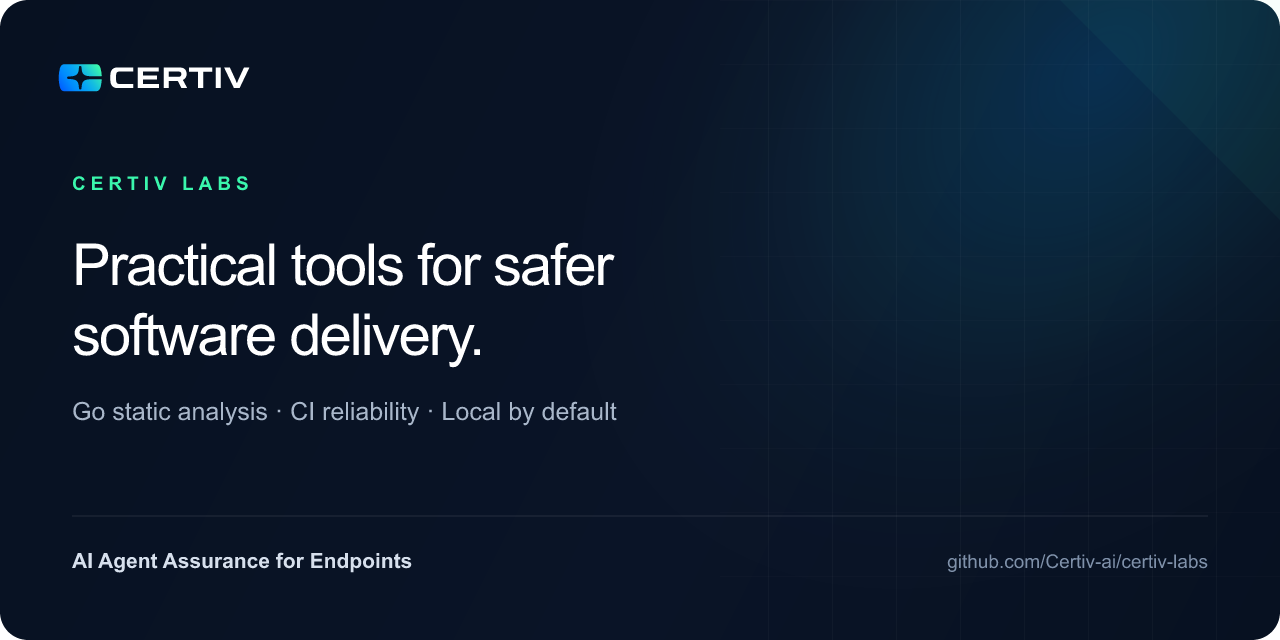
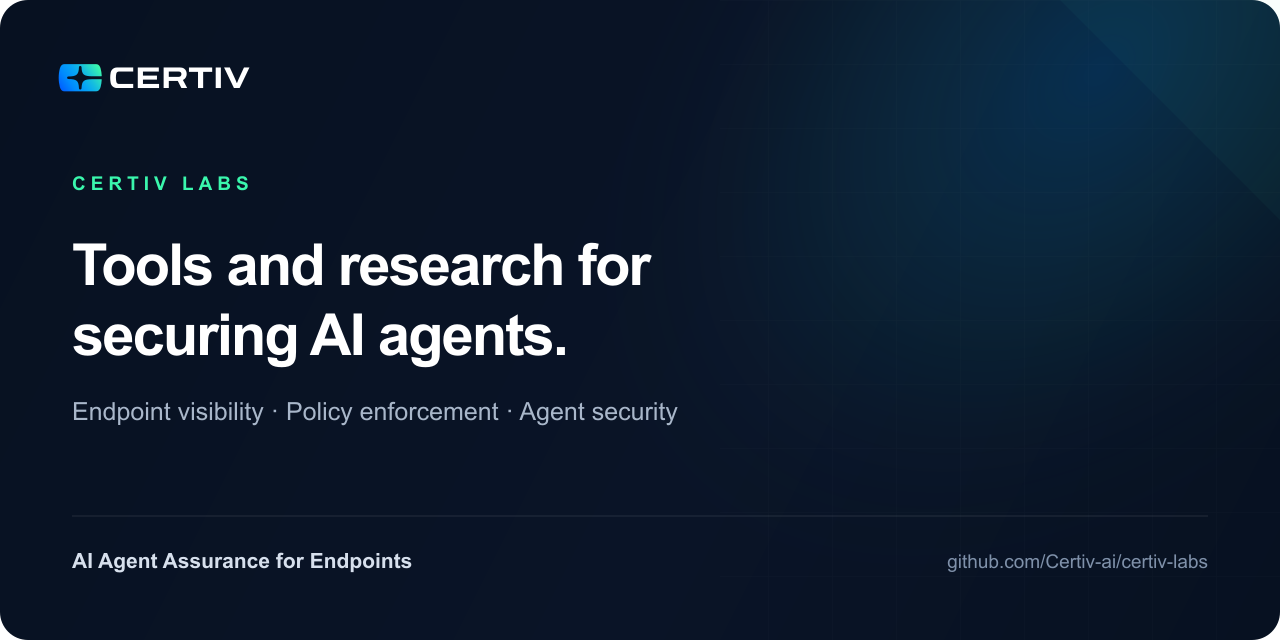
docs: reframe Labs around AI security

Changed region(s): [[0.0625, 0.375, 0.5, 0.5938], [0.0625, 0.625, 0.5312, 0.6562]]

diff --git a/internal/readme/readme_test.go b/internal/readme/readme_test.go
@@ -10,13 +10,9 @@ import (
 )
 
 type catalog struct {
-	Publisher struct {
-		ToolsURL string `json:"toolsUrl"`
-	} `json:"publisher"`
 	Tools []struct {
 		Slug          string `json:"slug"`
 		Documentation string `json:"documentation"`
-		CanonicalURL  string `json:"canonicalUrl"`
 		SourceURL     string `json:"sourceUrl"`
 	} `json:"tools"`
 }
@@ -70,7 +66,7 @@ func TestMarkdownRelativeLinksResolve(t *testing.T) {
 	}
 }
 
-func TestCatalogAndReadmesUseCanonicalLinks(t *testing.T) {
+func TestCatalogLinksToRepositoryDocumentation(t *testing.T) {
 	root := repositoryRoot(t)
 	contents, err := os.ReadFile(filepath.Join(root, "catalog.json"))
 	if err != nil {
@@ -81,12 +77,6 @@ func TestCatalogAndReadmesUseCanonicalLinks(t *testing.T) {
 	if err := json.Unmarshal(contents, &manifest); err != nil {
 		t.Fatalf("parse catalog: %v", err)
 	}
-	if manifest.Publisher.ToolsURL != "https://certiv.ai/tools/" {
-		t.Fatalf(
-			"unexpected tools catalog URL: %q",
-			manifest.Publisher.ToolsURL,
-		)
-	}
 	if len(manifest.Tools) < 2 {
 		t.Fatalf("catalog has %d tools, want at least 2", len(manifest.Tools))
 	}
@@ -94,15 +84,6 @@ func TestCatalogAndReadmesUseCanonicalLinks(t *testing.T) {
 	for _, tool := range manifest.Tools {
 		if tool.Slug == "" {
 			t.Error("catalog tool has empty slug")
-		}
-		expectedCanonical := "https://certiv.ai/tools/" + tool.Slug + "/"
-		if tool.CanonicalURL != expectedCanonical {
-			t.Errorf(
-				"%s canonical URL = %q, want %q",
-				tool.Slug,
-				tool.CanonicalURL,
-				expectedCanonical,
-			)
 		}
 		expectedSource := "https://github.com/Certiv-ai/certiv-labs/tree/main/cmd/" + tool.Slug
 		if tool.SourceURL != expectedSource {
@@ -115,21 +96,8 @@ func TestCatalogAndReadmesUseCanonicalLinks(t *testing.T) {
 		}
 
 		readmePath := filepath.Join(root, filepath.FromSlash(tool.Documentation))
-		readme, err := os.ReadFile(readmePath)
-		if err != nil {
+		if _, err := os.ReadFile(readmePath); err != nil {
 			t.Errorf("%s documentation cannot be read: %v", tool.Slug, err)
-			continue
-		}
-		displayURL := strings.TrimPrefix(
-			tool.CanonicalURL,
-			"https://",
-		)
-		if !strings.Contains(string(readme), displayURL) {
-			t.Errorf(
-				"%s documentation does not link to %s",
-				tool.Slug,
-				tool.CanonicalURL,
-			)
 		}
 	}
 }

diff --git a/README.md b/README.md
@@ -1,86 +1,46 @@
 # Certiv Labs
 
-Practical developer tools for safer software delivery. Run focused checks
-locally or in CI—no Certiv account, network access, or telemetry required.
+<p align="center">
+  <img src="assets/social-preview.png" alt="Certiv Labs — tools and research for securing AI agents" width="100%">
+</p>
 
-Built by the team behind [Certiv](https://certiv.ai/): **AI Agent Assurance for
-Endpoints.**
+Certiv Labs is the public home for Certiv's tools, research, and field-tested
+techniques for securing AI agents at the endpoint.
 
-> **Current status:** Public preview. The tools are available for evaluation,
-> but this repository does not yet carry an open-source license or a supported
-> versioned release.
+We explore how security teams can discover agent activity, understand intent,
+enforce policy before execution, and produce evidence they can trust.
 
-## Start here
+[Website](https://certiv.ai/) ·
+[Platform](https://certiv.ai/product/) ·
+[Insights](https://certiv.ai/blog/) ·
+[Book a demo](https://certiv.ai/demo/)
 
-- **Browse the tools:** [certiv.ai/tools/](https://certiv.ai/tools/)
-- **Machine-readable catalog:** [`catalog.json`](catalog.json)
-- **About Certiv:** [certiv.ai](https://certiv.ai/)
-- **Product overview:** [AI Agent Assurance for Endpoints](https://certiv.ai/product/)
+## Focus areas
 
-The website catalog is the stable, human- and agent-readable source for
-discovery. This repository remains the source of truth for code, setup,
-limitations, and contribution guidance.
+- **Agent discovery:** Find sanctioned and shadow agents operating across
+  enterprise endpoints.
+- **Intent and tool-use visibility:** Understand what agents are attempting,
+  which tools they invoke, and what data they can reach.
+- **Pre-execution control:** Evaluate and enforce policy before risky agent
+  actions run.
+- **Agent security evaluation:** Test agent behavior against prompt injection,
+  unsafe tool use, excessive permissions, and data-exfiltration paths.
 
-## Tools
+## Open releases
 
-| Tool                                                                                 | Problem it catches                                                                                                    | Maturity      | Documentation                                |
-| ------------------------------------------------------------------------------------ | --------------------------------------------------------------------------------------------------------------------- | ------------- | -------------------------------------------- |
-| [`selectstar` — Go `sqlx` `SELECT *` linter](cmd/selectstar/)                        | `SELECT *` queries that can break strict scans when a schema changes before old application instances stop serving    | Internal beta | [README](cmd/selectstar/README.md)           |
-| [`integrationtestnames` — Go integration-test CI checker](cmd/integrationtestnames/) | Integration-tagged tests that CI silently skips because their names do not match the configured `go test -run` prefix | Internal beta | [README](cmd/integrationtestnames/README.md) |
+Our first public AI-security releases are in development. Each release will
+appear here with a clear use case, threat model, quick start, data-handling
+notes, maturity level, and source code.
 
-## Try the tools locally
+Follow this repository to see new projects as they are published.
 
-Requirements:
+## About Certiv
 
-- Go 1.22 or later
-- a local checkout of this repository
+[Certiv](https://certiv.ai/) provides **AI Agent Assurance for Endpoints**,
+giving organizations visibility and control over agentic activity before risky
+actions execute.
 
-Run all checks:
-
-```bash
-go test ./...
-go vet ./...
-```
-
-Run either tool directly:
-
-```bash
-go run ./cmd/selectstar --fail /path/to/go/project
-go run ./cmd/integrationtestnames /path/to/go/project
-```
-
-Both tools are local static analyzers. They do not send source code, telemetry,
-or usage data anywhere.
-
-## Why Certiv publishes these
-
-AI-assisted engineering makes small, automated safeguards more valuable. Labs
-is where Certiv shares focused tools and implementation lessons that are useful
-outside our product. Each release is problem-led, transparent about its limits,
-and usable without a Certiv account.
-
-## What belongs in Labs
-
-A Labs release should:
-
-1. solve a real problem without requiring a Certiv account;
-2. take less than ten minutes to try;
-3. state its maturity, limitations, data handling, and support level;
-4. include tests, CI, contribution guidance, and a security contact;
-5. connect a specific engineering problem to the broader work Certiv does.
-
-Small and useful beats broad and speculative.
-
-## Repository state
-
-This repository is intentionally not licensed for public reuse yet. Before the
-first supported release, Certiv must approve a license, complete intellectual
-property review, assign a maintainer, and replace the preview notices. The
-complete gate is in [PUBLICATION_CHECKLIST.md](PUBLICATION_CHECKLIST.md).
-
-## Contributing and security
-
-See [CONTRIBUTING.md](CONTRIBUTING.md) for the internal development workflow.
-Please report suspected vulnerabilities using the private process in
-[SECURITY.md](SECURITY.md); do not open a public issue for security-sensitive
-findings.
+[Explore the platform](https://certiv.ai/product/) ·
+[Read our latest insights](https://certiv.ai/blog/) ·
+[Security](SECURITY.md) ·
+[Contributing](CONTRIBUTING.md)

diff --git a/cmd/selectstar/README.md b/cmd/selectstar/README.md
@@ -4,7 +4,6 @@ Catch `SELECT *` projections passed to common Go
 [`sqlx`](https://github.com/jmoiron/sqlx) query methods before additive schema
 changes break strict scans during a rolling deployment.
 
-- **Tool page:** [certiv.ai/tools/selectstar/](https://certiv.ai/tools/selectstar/)
 - **Source:** this directory
 - **Maturity:** Internal beta
 - **Data handling:** local static analysis; no network requests or telemetry

diff --git a/cmd/integrationtestnames/README.md b/cmd/integrationtestnames/README.md
@@ -3,7 +3,6 @@
 Catch integration-tagged Go tests that a prefix-based CI filter would silently
 skip, before a false-green build hides them.
 
-- **Tool page:** [certiv.ai/tools/integrationtestnames/](https://certiv.ai/tools/integrationtestnames/)
 - **Source:** this directory
 - **Maturity:** Internal beta
 - **Data handling:** local static analysis; no network requests or telemetry
